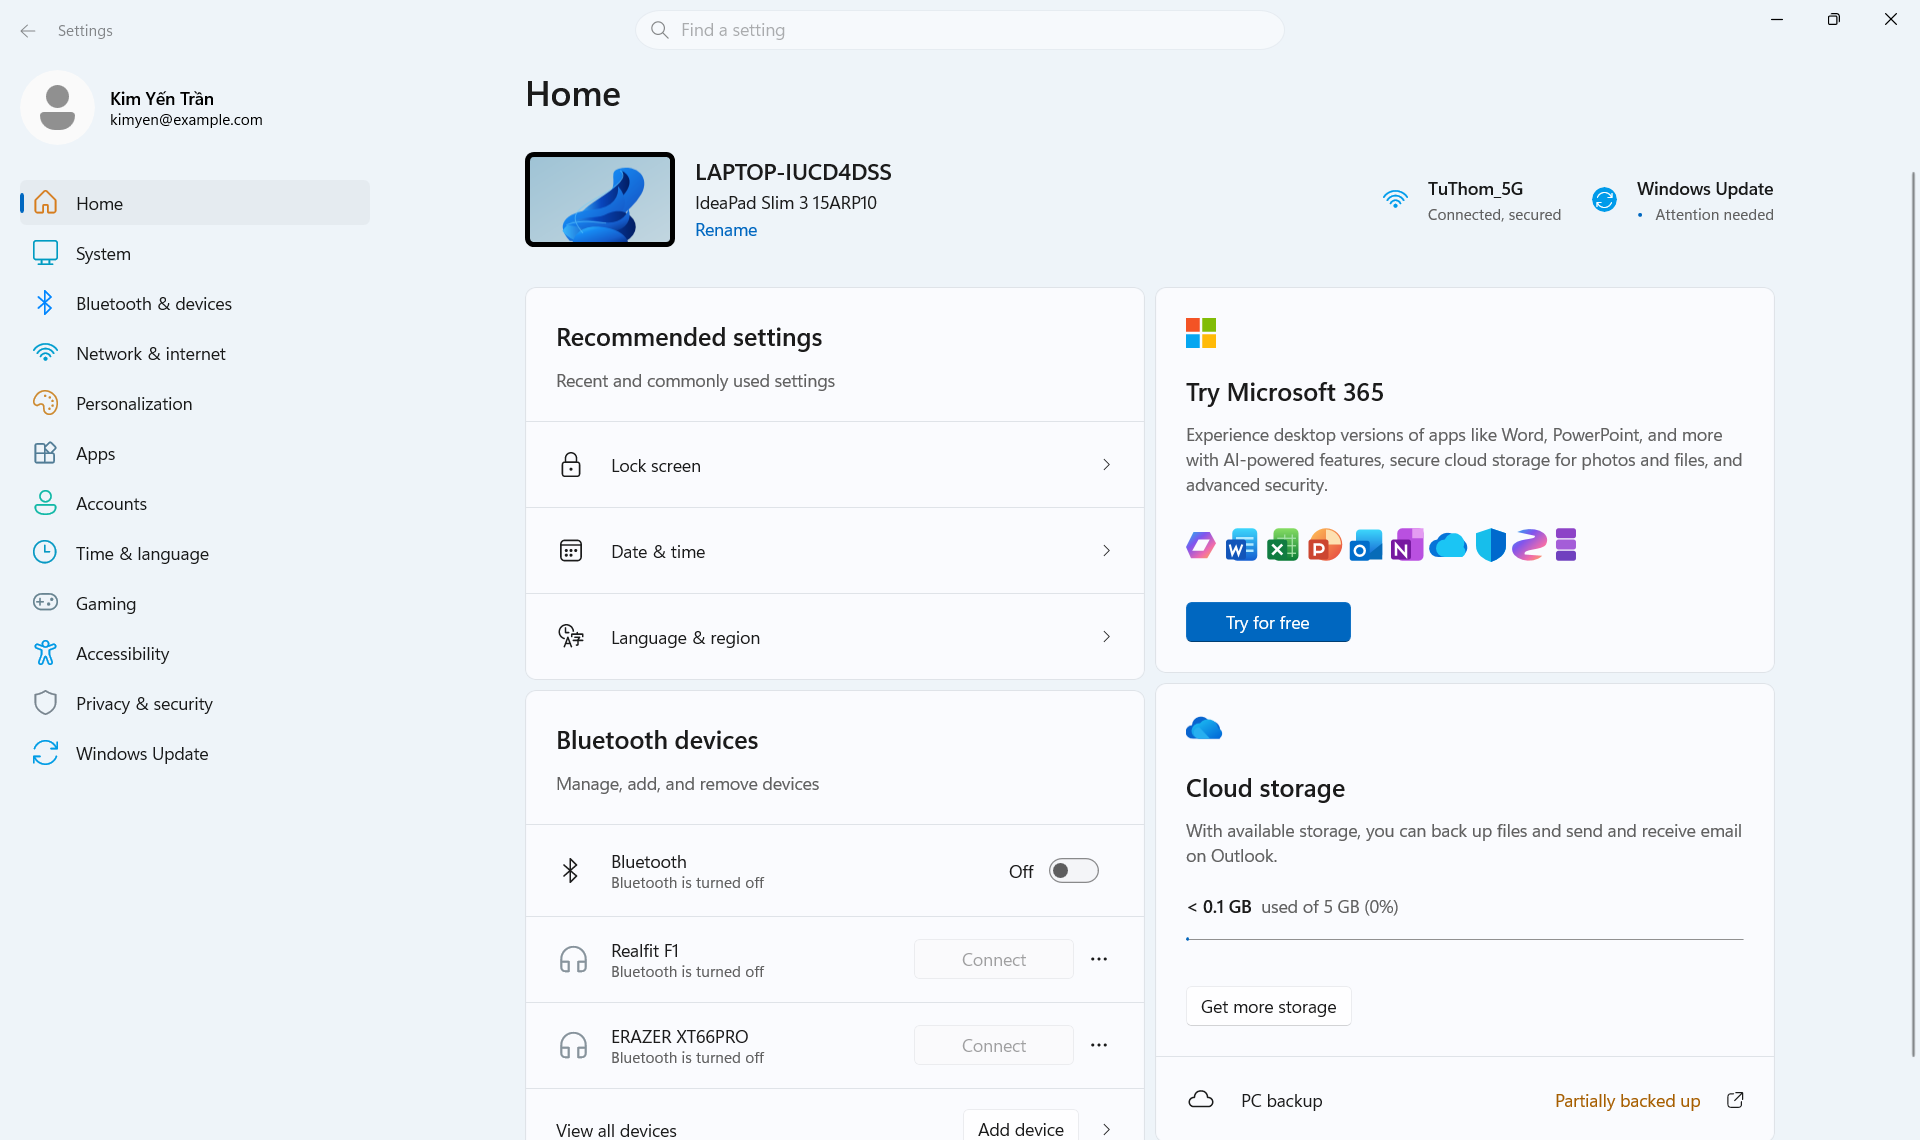
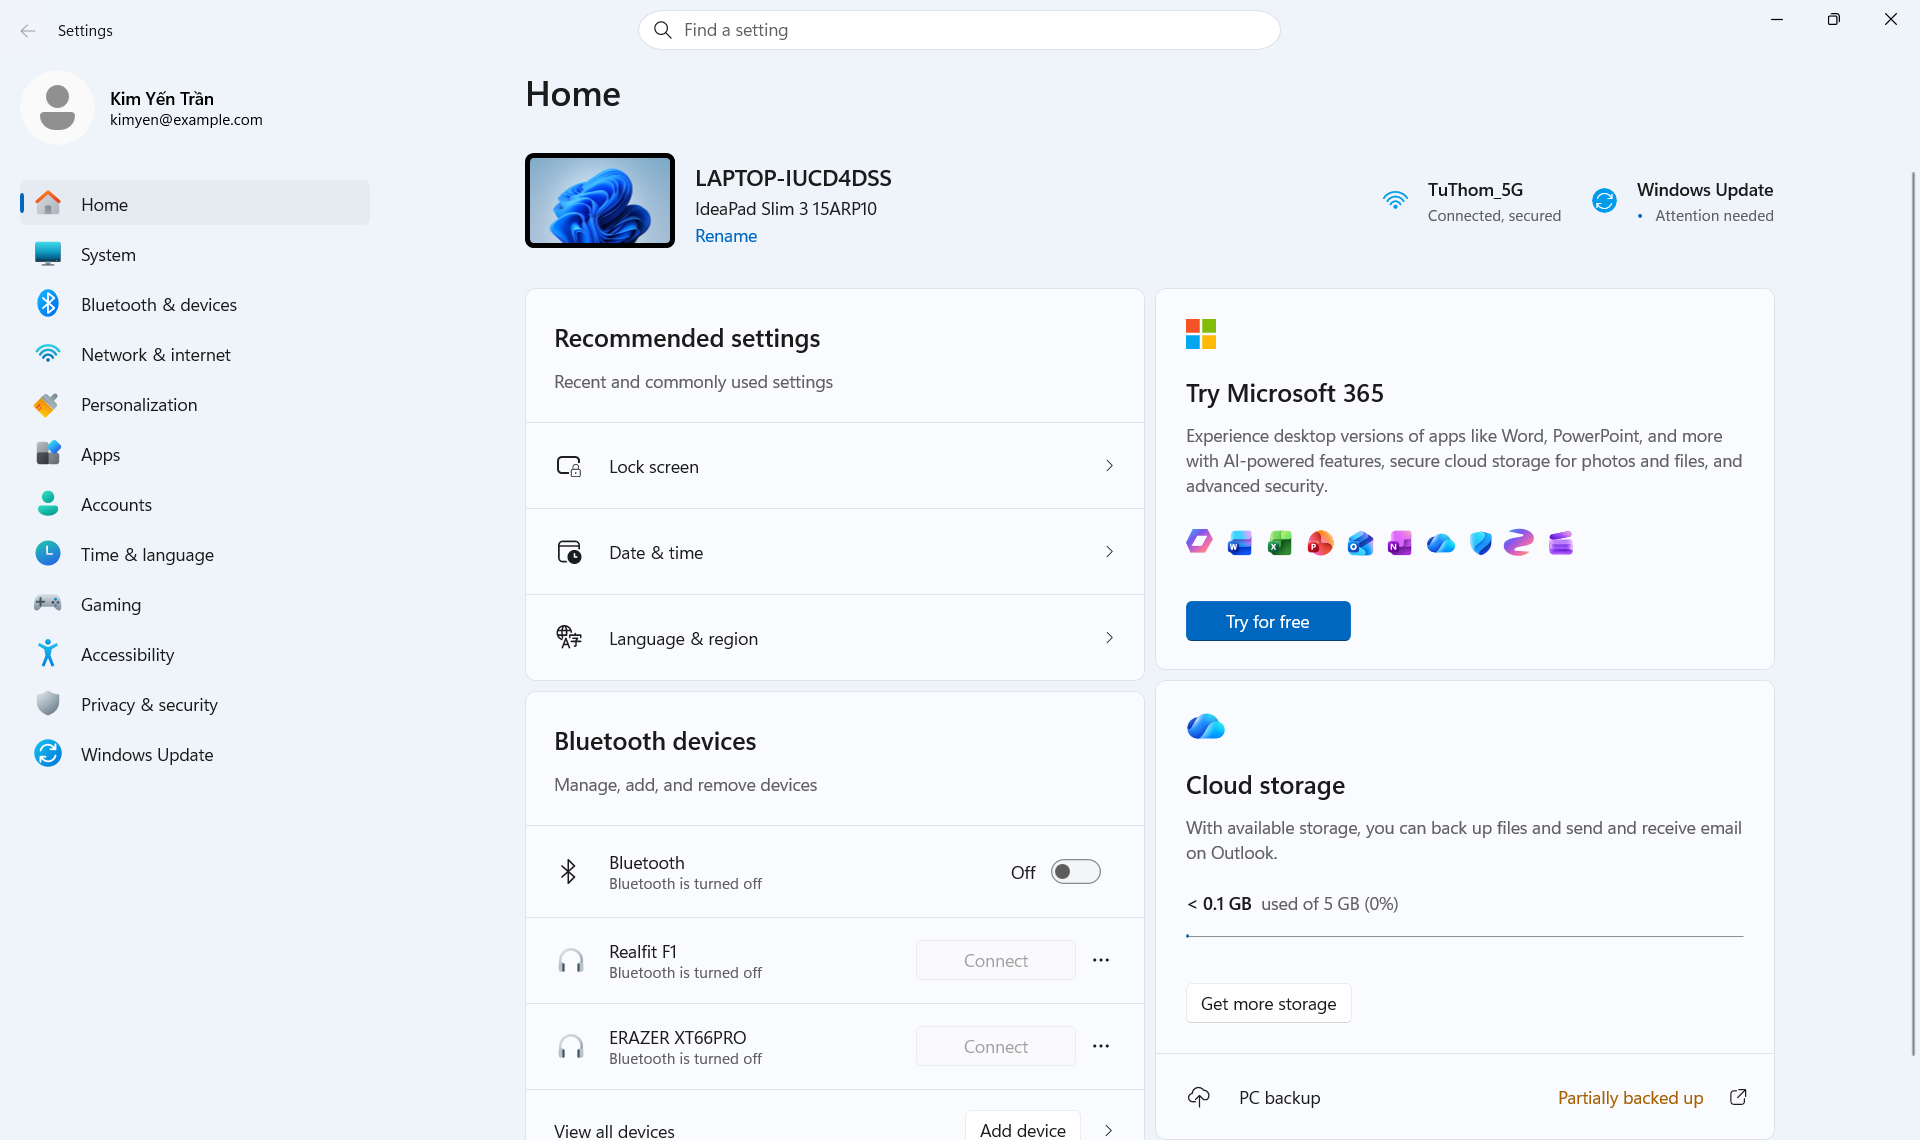
docs: clarify personal reference and refresh verified submission screenshots

diff --git a/docs/IMPLEMENTATION_VALIDATION.md b/docs/IMPLEMENTATION_VALIDATION.md
@@ -1,13 +1,13 @@
 # HW1012 – Kết quả triển khai và kiểm thử
 
-Ngày kiểm tra: **14/10/2026**, múi giờ Asia/Saigon.
+Ngày kiểm tra: **14/10/2026**, múi giờ Asia/Saigon. Kết quả thuộc bản đã bổ sung AdaptiveTrigger, truyền dữ liệu, DataTemplate, dialog dùng chung và icon màu.
 
 ## Môi trường và build
 
 - Windows 11, Visual Studio Community 2026.
 - .NET SDK `10.0.401`, target `net8.0-windows10.0.19041.0`.
 - Giữ nguyên Windows App SDK `2.5.1` và SDK BuildTools `10.0.28000.2705`.
-- Cấu hình **Debug/x64**: MSBuild kết thúc với **exit code 0**.
+- Cấu hình **Debug/x64**: MSBuild kết thúc với **exit code 0**, không báo lỗi hoặc cảnh báo trong lượt build mới nhất.
 
 ```powershell
 & 'C:\Program Files\Microsoft Visual Studio\18\Community\MSBuild\Current\Bin\MSBuild.exe' .\SettingsClone.slnx /restore /t:Build /p:Configuration=Debug /p:Platform=x64 /verbosity:minimal /nologo
@@ -21,7 +21,21 @@ Lần build đầu báo thiếu extension `GetAwaiter` khi await `ContentDialog.
 
 Lệnh MSBuild `/t:Deploy` không có target tương ứng trong project này. Chạy `.exe` trực tiếp cũng từng báo `REGDB_E_CLASSNOTREG` khi khởi tạo runtime vì thiếu context gói. Các lượt chạy và kiểm thử thành công sử dụng cơ chế kích hoạt gói MSIX; trong Visual Studio hãy dùng **SettingsClone (Package)**.
 
-Bốn SVG có khai báo `Content` trong project, có mặt trong appxrecipe/layout và đã hiển thị trong ảnh chụp thực tế.
+Wallpaper Windows Bloom và các SVG mới có khai báo Content, có trong layout gói và đã hiển thị trong app. Bộ tài nguyên gồm 18 SVG và một JPG; 17 SVG dùng trong giao diện, DeviceWallpaper.svg là minh họa cũ không còn dùng. Nguồn/giấy phép: [ASSETS.md](../Assets/ASSETS.md).
+
+## Những điểm đã cải thiện sau review
+
+| Điểm review | Thay đổi thực tế | Cách xác minh |
+| --- | --- | --- |
+| Chưa truyền dữ liệu giữa Page | Home tạo DeviceInfo; Navigate truyền tham số; System nhận qua OnNavigatedTo | Rename thành HW1012-DEMO; xác nhận tên/model/Bluetooth On và Off trên System |
+| Responsive chỉ có code-behind | VisualStateManager/AdaptiveTrigger và Setters trong XAML | Resize lớn → nhỏ → lớn; kiểm tra hai cột/một cột, sidebar 304/228/72 và nhóm nút |
+| Lặp sidebar/hàng System | ItemsControl với một DataTemplate cho mỗi danh sách, Binding tới model đơn giản | Đủ 12 mục sidebar, sáu hàng System; selected state/tương tác đúng |
+| Lặp dialog ở ba file | DialogHelper và một khóa chống mở chồng toàn cửa sổ | Connect, Rename, Microsoft 365, Apps và các luồng navigation |
+| Spacing/tooltip cập nhật thừa | ColumnSpacing 14 khi có chữ, 0 khi thu gọn; tooltip Binding trong template; cột icon đủ 24 | Review XAML/C# và ảnh nhỏ; SizeChanged của shell chỉ tính chiều rộng ô tìm kiếm |
+| NavigationFailed làm crash | e.Handled = true và dialog Page unavailable | Đã build/review nhánh xử lý; chưa xác minh được bằng gây lỗi ở runtime |
+| Icon và wallpaper giản lược | Windows Bloom, sidebar màu, tám logo ứng dụng và OneDrive từ nguồn Microsoft; chỉnh Lock screen/Date & time/tai nghe | Xem ảnh chụp mới và đối chiếu ảnh cá nhân sinh viên |
+
+Home giữ ngưỡng theo vùng nội dung thật: C# chuyển breakpoint nội dung/card sang MinWindowWidth; các thuộc tính layout do Setters XAML thay đổi. Page chứa shell và UserControl trong item template cung cấp control chủ quản cho state triggers. Kiểm tra chạy thật đã phát hiện và sửa trường hợp Grid trực tiếp dưới Window chưa tự kích hoạt các trạng thái.
 
 ## Kiểm tra tương tác bằng UI Automation
 
@@ -39,9 +53,12 @@ Các kiểm tra sau đã đạt trên bản chạy thực tế:
 - Try for free hiển thị dialog Microsoft 365 demo.
 - Mục Apps chưa triển khai hiển thị dialog demo và vẫn giữ Home selected.
 - Rename không cho lưu tên chỉ có khoảng trắng; tên hợp lệ cập nhật label thiết bị.
+- System nhận HW1012-DEMO, model và Bluetooth On cùng lúc qua DeviceInfo; cũng xác nhận giá trị Off. Back về Home giữ tên sau Rename; System/About dùng dữ liệu nhận từ Home.
 - Ô tìm kiếm trên title bar nhận input bàn phím; Enter với System/Home điều hướng đúng.
 
 Tên máy và trạng thái Bluetooth được trả lại giá trị mặc định sau kiểm tra. Không gọi API thay đổi Windows Settings, Bluetooth, cloud storage hoặc subscription.
+
+Đã thử tạo bản sao tạm với Page cố ý lỗi để kiểm tra NavigationFailed, nhưng việc kích hoạt gói chưa chạy đúng bản thử nghiệm; không coi nhánh lỗi này là đã qua kiểm thử runtime. Page/hook thử nghiệm không nằm trong repository. Các luồng navigation bình thường được kiểm tra trên gói phát triển của bài làm.
 
 ## Responsive và kiểm tra trực quan
 
@@ -53,7 +70,9 @@ Display scaling của máy kiểm tra: **125% (120 DPI)**. Kích thước dướ
 | 1422 × 951 | Hai cột co giãn; hàng thiết bị chuyển nút xuống dưới khi card hẹp |
 | 882 × 851 | Sidebar dạng icon, card xếp một cột; cuộn tới được Cloud storage và PC backup |
 
-Đã xem các screenshot và so sánh Home lớn với ảnh đề. Các vùng chính, nội dung card, khoảng cách và hệ thống màu đã được chỉnh; sửa lệch ngang giữa tiêu đề Home với vùng ScrollViewer bằng cách giới hạn content theo viewport trước khi căn giữa.
+Ngoài ảnh lưu, đã thử cửa sổ rộng 1100 pixel vật lý để kiểm tra sidebar mức vừa 228 effective pixels và client rộng 522 pixel để kiểm tra PC backup vẫn truy cập được. Sau khi maximize lại, hai cột khôi phục đúng. UI Automation còn kiểm tra chiều rộng mục Home ở chế độ icon để tránh bỏ sót sidebar chưa thu gọn.
+
+Đã xem các screenshot và so sánh Home lớn với **ảnh cá nhân sinh viên**, không gọi ảnh này là ảnh gốc của giảng viên; xem [lưu ý nguồn ảnh trong README](../README.md). Các vùng chính, nội dung card, khoảng cách và hệ thống màu đã được chỉnh; vùng cuộn giới hạn theo viewport để căn lề cùng tiêu đề. Ảnh được chụp khi cửa sổ app nằm trên cùng, kiểm tra không bị ứng dụng khác che, rồi được xem trước khi đưa vào repository.
 
 Kiểm tra screenshot cũng phát hiện highlight menu cũ còn tồn tại dù IsChecked đã chuyển Off. Template được sửa để dùng các trạng thái Checked/CheckedPointerOver/CheckedPressed cùng CommonStates theo [mã nguồn WinUI của Microsoft](https://github.com/microsoft/microsoft-ui-xaml/blob/main/controls/dev/CommonStyles/ToggleButton_themeresources.xaml). SystemPage cũng được giới hạn theo viewport để tránh lệch và cắt nội dung ngang.
 
@@ -64,10 +83,11 @@ Kiểm tra screenshot cũng phát hiện highlight menu cũ còn tồn tại dù
 - [Home nhỏ](screenshots/home-small.png)
 - [Home nhỏ, phần dưới](screenshots/home-small-bottom.png)
 - [System](screenshots/system.png)
+- [System nhận tên mới và Bluetooth On](screenshots/system-parameter-demo.png)
 
 ## Khác biệt và phạm vi chưa xác minh
 
-- Hình thiết bị, logo cloud và hàng icon ứng dụng là SVG giản lược; sidebar dùng FontIcon một màu, khác asset gốc trong ảnh đề. Xem `Assets/ASSETS.md`.
+- Một số icon sidebar, Copilot/Designer và tai nghe vẫn dựng gần giống; không khẳng định giống từng pixel. Nguồn tài nguyên được ghi trong `Assets/ASSETS.md`.
 - Email mẫu dùng `example.com`; dữ liệu Wi-Fi, thiết bị, dung lượng và update là mock.
 - Screenshot không phải giao diện được nhúng; các card, chữ, nút và thanh tiến độ là control thật.
 - Chỉ Home và System có Page; các mục khác thông báo demo theo phạm vi được duyệt.
@@ -80,5 +100,5 @@ Kiểm tra screenshot cũng phát hiện highlight menu cũ còn tồn tại dù
 2. Maximize để đối chiếu ảnh; thử resize lớn/vừa/nhỏ và cuộn tới Add device/PC backup.
 3. Thử Home/System/Back; thử tìm kiếm, Rename và Bluetooth demo.
 4. Review lịch sử commit và `git diff`; không có thay đổi remote hoặc push trong nhiệm vụ này.
-5. Tài liệu bài giảng đã có sẵn trước triển khai vẫn được giữ nguyên; người dùng quyết định việc track file này.
+5. Tài liệu bài giảng đã được theo dõi trong Git và giữ nguyên nội dung.
 6. Clean Solution trước khi tạo gói bài nộp, loại dữ liệu IDE/build cục bộ và giữ đủ source/assets để build lại.
